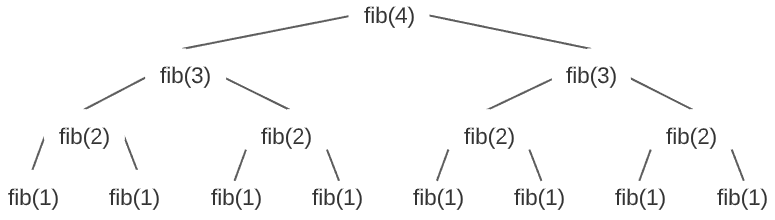
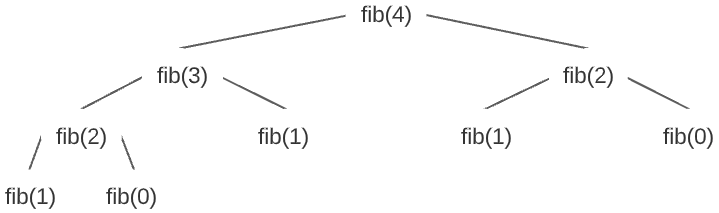
Fixed fib tree

diff --git a/markdown/tutorials-and-cheat-sheets/data-structures-and-algorithms/complexity-and-big-o-notation.md b/markdown/tutorials-and-cheat-sheets/data-structures-and-algorithms/complexity-and-big-o-notation.md
@@ -250,13 +250,13 @@ In some cases, you will see functions that recursively call themselves multiple 
     <img src="/assets/images/data-structures-and-algorithms/complexity-and-big-o/big-o-example-6.png" alt="big-o-example-6.png"/>
 </p>
 
-In the above algorithm, `fib(4)` will recursively branch off into two `fib(3)` calls. Each `fib(3)` call will branch into two more `fib(2)` calls. This will continue until the `fib(1)` calls end the cycle. This branching is visualized below: 
+In the above algorithm, `fib(4)` will recursively branch off into a `fib(3)` call and a `fib(2)` call. The `fib(3)` call will branch into a `fib(2)` call and a `fib(1)` call. This will continue until the `fib(1)` and `fib(0)` calls end the cycle. This branching is visualized below: 
 
 <p align="center">
     <img src="/assets/images/data-structures-and-algorithms/complexity-and-big-o/fib-tree.png" alt="fib-tree.png"/>
 </p>
 
-To figure out how many times this O(1) function is recursively executed, we must find the number of nodes in the resulting tree. As can be seen, each iteration doubles the number of nodes. Therefore, we know the complexity is exponential because the amount of recursive executions grows at an exponential rate. When dealing with a tree such as this, time complexity can be represented as O(branches<sup>depth</sup>) where `branches` is the number of recursive branches per node and `depth` is the depth of the tree. In other words, `branches` is the number of recursive calls within the function and `depth` is the maximum number of iterations before the input value reaches the end case. Therefore, since there are 2 recursive calls in the function and it takes *n* iterations for the input value to be decremented to 1, the time complexity of this function is O(2<sup>n</sup>).
+To figure out how many times this O(1) function is recursively executed, we must find the number of nodes in the resulting tree. As can be seen, each iteration doubles the number of nodes. Therefore, we know the complexity is likely exponential because the amount of recursive executions appears to grow at an exponential rate. When dealing with a tree such as this, time complexity can be represented as O(branches<sup>depth</sup>) where `branches` is the number of recursive branches per node and `depth` is the depth of the tree. In other words, `branches` is the number of recursive calls within the function and `depth` is the maximum number of iterations before the input value reaches the end case. Therefore, since there are 2 recursive calls in the function and it takes *n* iterations for the input value to be decremented to 1, the time complexity of this function is O(2<sup>n</sup>).
 
 Be careful though. In the upcoming sections, you will see that recursive sorting functions like merge sort and quick sort will recursively call themselves twice. However, they will not have exponential time complexities. That's because the recursive end case is approached at an exponential rate. As a result, the `depth` component of the O(branches<sup>depth</sup>) equation is logarithmic. Therefore, instead of having a time complexity equation resembling O(2<sup>n</sup>), the equation is actually O(2<sup>log<sub>2</sub>(n)</sup>) which, if you know your logarithmic manipulations, is equivalent to O(n).
 
